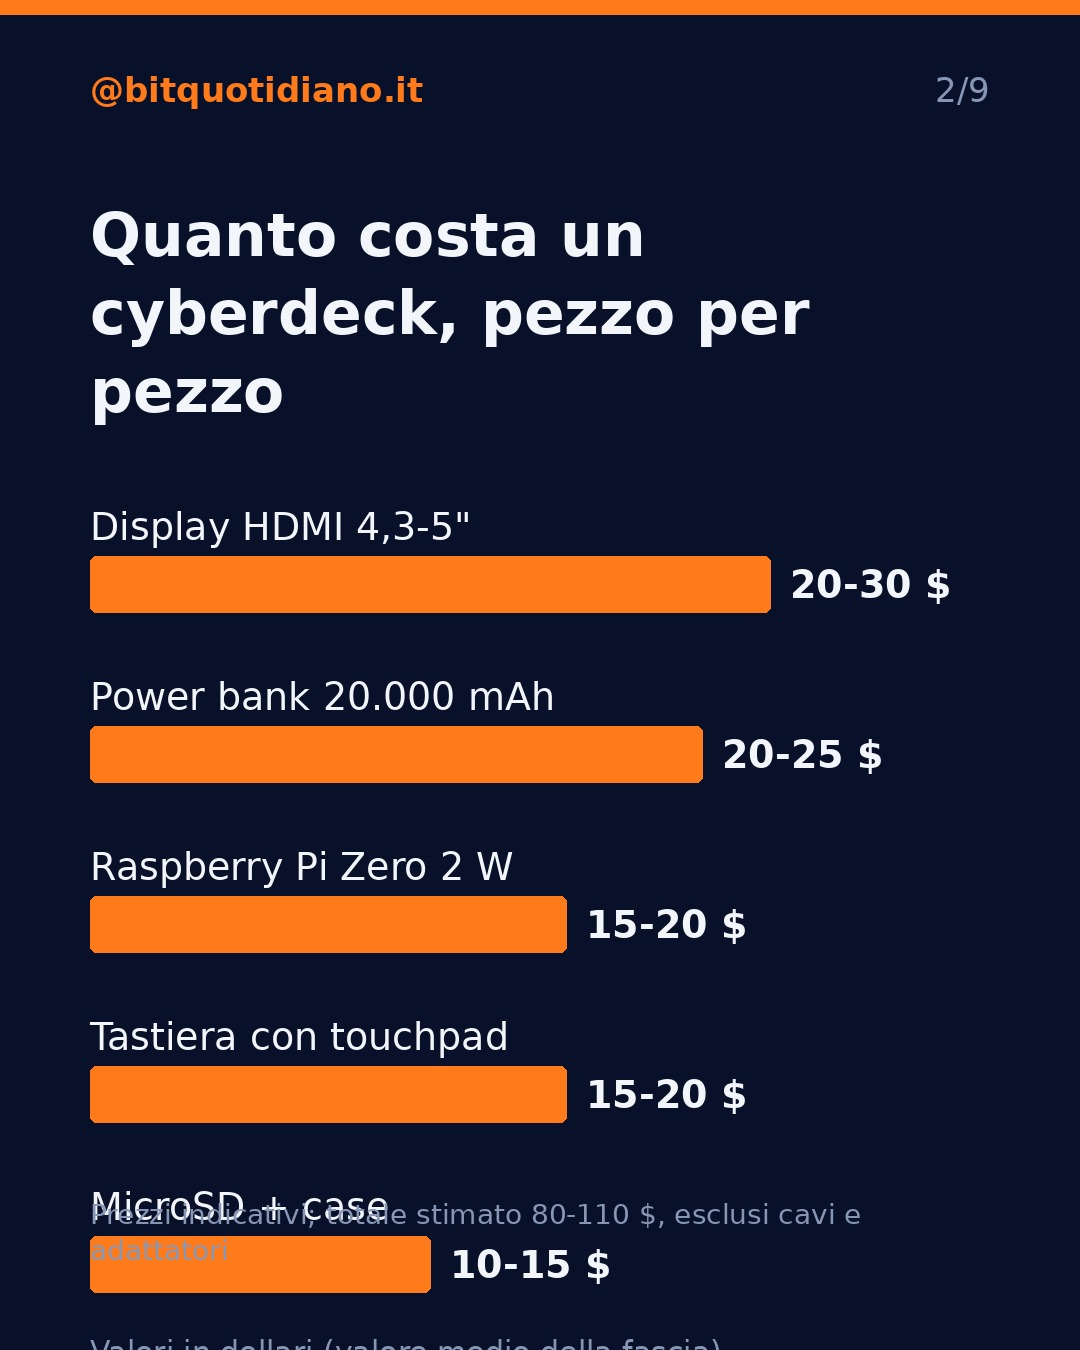
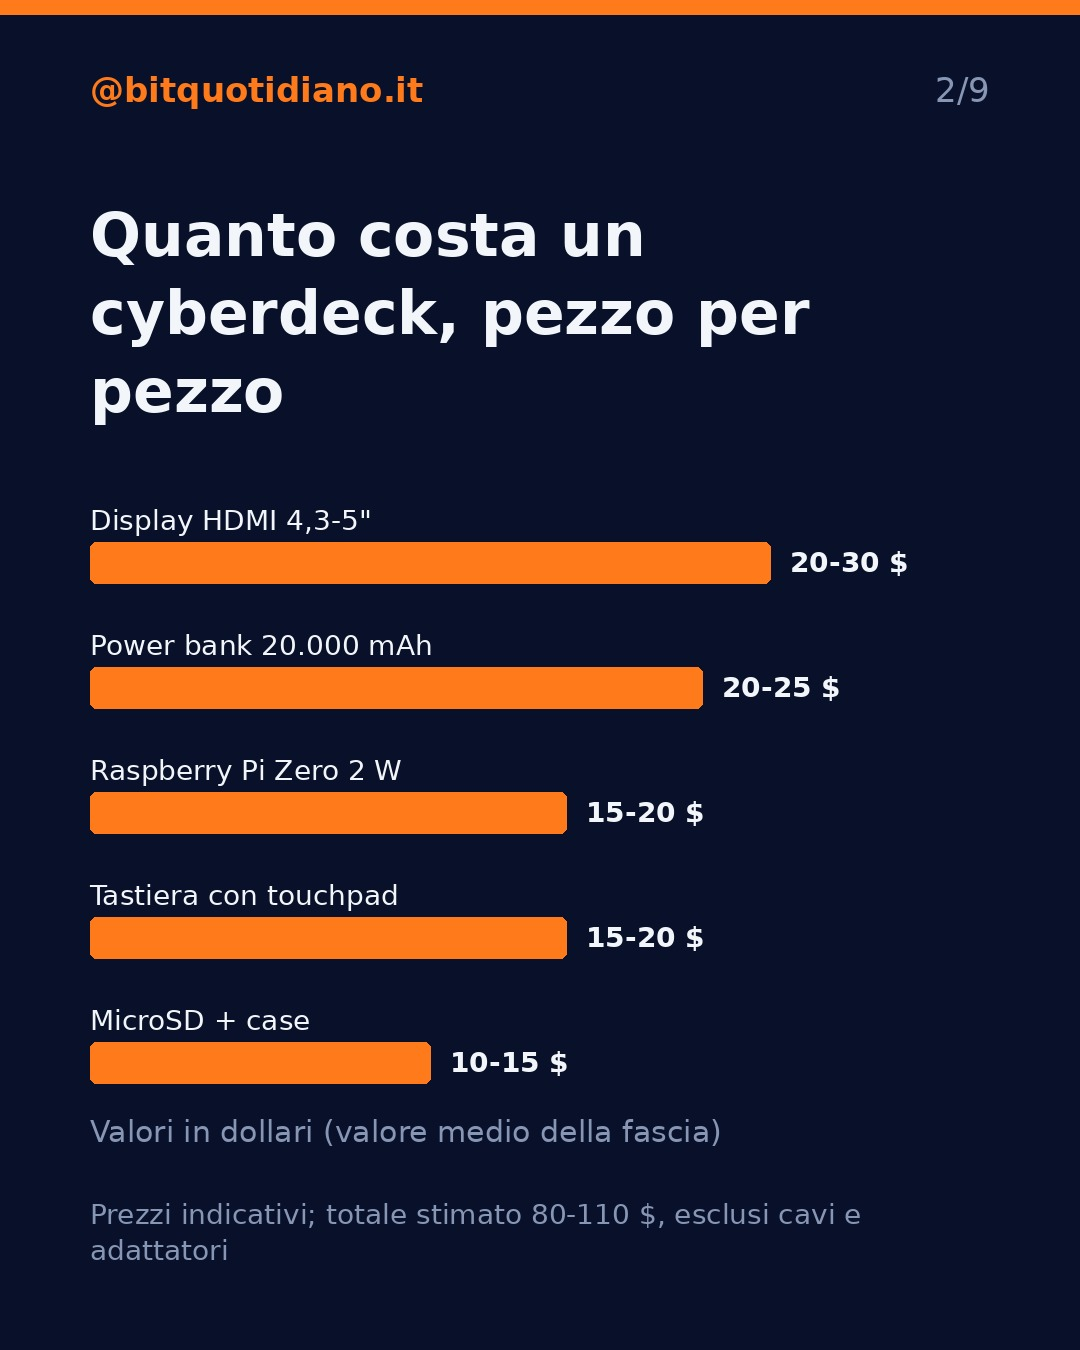
Infografica a barre: si riduce per non sovrapporsi alla nota
Claude-Session: https://claude.ai/code/session_01U6DSe7uv8AUo1LoLXyh9pn

Changed region(s): [[0.0611, 0.3733, 0.8861, 0.7156], [0.0611, 0.7467, 0.7028, 0.9644], [0.0611, 0.9956, 0.6722, 1.0]]

diff --git a/pipeline/render.py b/pipeline/render.py
@@ -105,19 +105,23 @@ def _barre(d, info, y):
     els = sorted([e for e in info.elementi if e.valore is not None], key=lambda e: e.valore, reverse=True)[:6]
     if not els:
         return
-    label_font, value_font = _font(FONT_REG, 38), _font(FONT_BOLD, 38)
+    # Lo spazio sotto il grafico è riservato all'unità e alla nota (2 righe): se le barre non
+    # ci stanno, si riducono font, barre e spazi in proporzione.
+    available = H - 80 - 36 * 2 - 60 - y
+    scale = min(1.0, available / (len(els) * (38 + 14 + 56 + 62)))
+    label_font, value_font = _font(FONT_REG, int(38 * scale)), _font(FONT_BOLD, int(38 * scale))
     max_v = max(e.valore for e in els) or 1
-    bar_h, gap = 56, 62
+    bar_h, gap = int(56 * scale), int(62 * scale)
     max_w = W - 2 * MARGIN - 220
     for e in els:
         d.text((MARGIN, y), e.etichetta, font=label_font, fill=FG)
-        y += label_font.size + 14
+        y += label_font.size + int(14 * scale)
         w = max(8, int(max_w * e.valore / max_v))
         d.rounded_rectangle([MARGIN, y, MARGIN + w, y + bar_h], radius=6, fill=ACCENT)
         d.text((MARGIN + w + 20, y + bar_h / 2), e.testo, font=value_font, fill=FG, anchor="lm")
         y += bar_h + gap
     if info.unita:
-        d.text((MARGIN, y - 20), f"Valori in {info.unita}", font=_font(FONT_REG, 30), fill=MUTED)
+        d.text((MARGIN, y - gap // 3), f"Valori in {info.unita}", font=_font(FONT_REG, 30), fill=MUTED)
 
 
 def _timeline(d, info, y):
